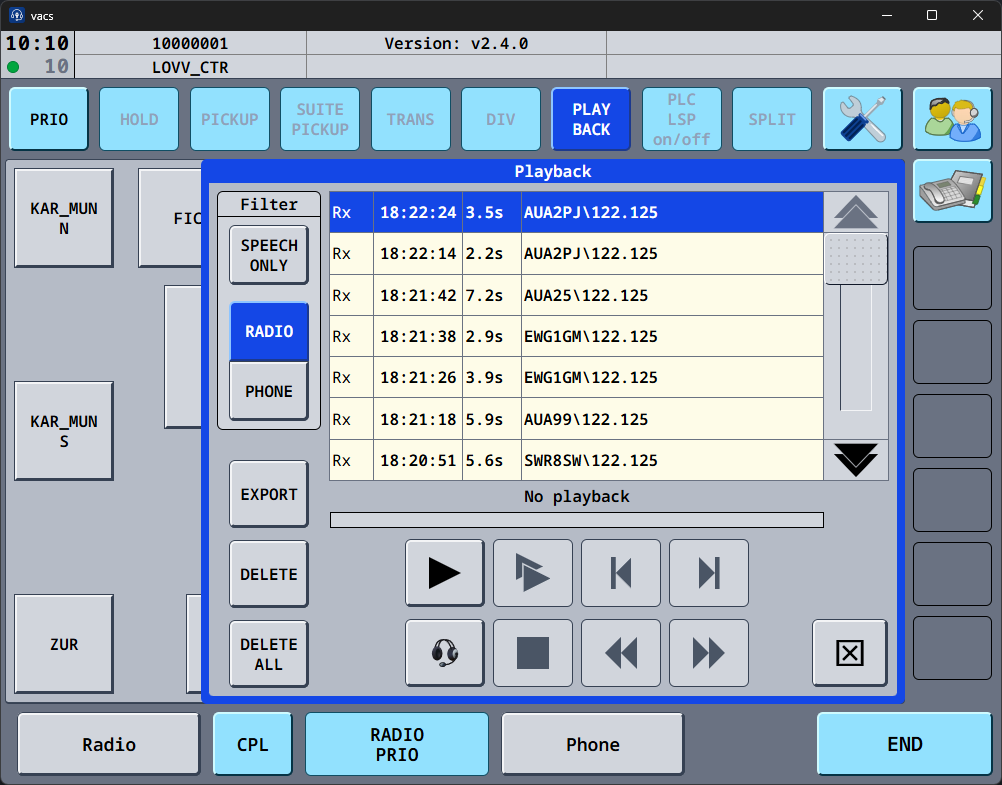
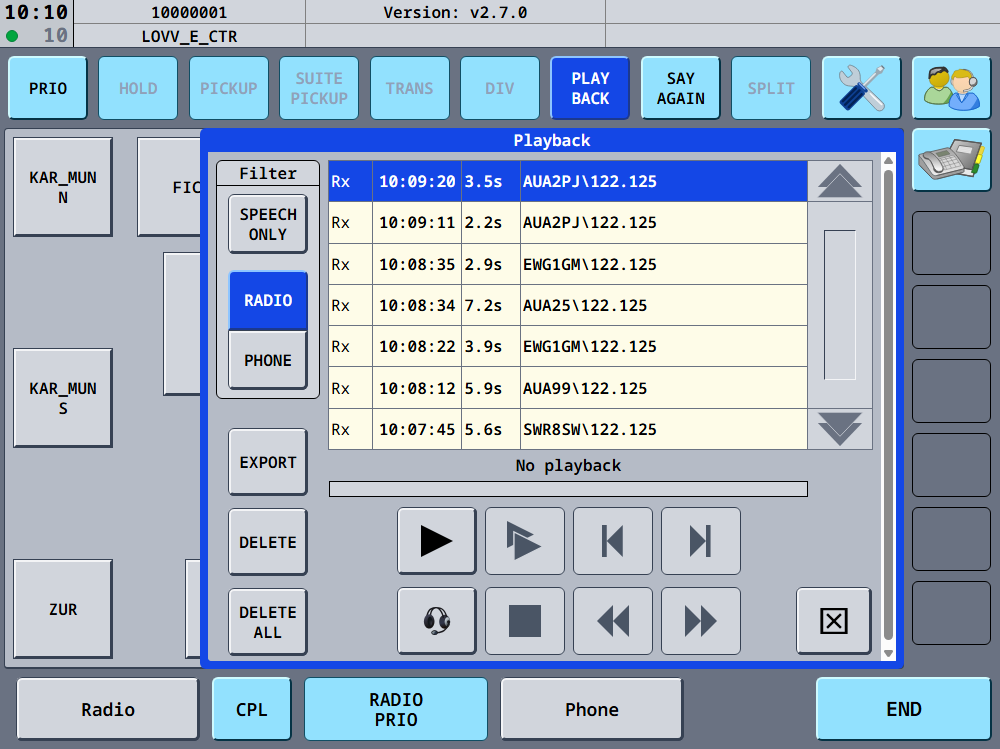
docs: add the SAY AGAIN key image and refresh the Playback page image

diff --git a/docs/interface/playback.md b/docs/interface/playback.md
@@ -86,7 +86,14 @@ style={{
 
 **SAY AGAIN** is a button in the upper function button row, to the right of **PLAY BACK**. It replays the most recent recorded transmission immediately, so you can hear a readback again without opening the Playback page.
 
-{/* TODO(screenshot): /img/playback/say-again-button.png - the upper function button row with the SAY AGAIN button visible, radio connected, button in its idle cyan state. */}
+<img
+src="/img/playback/say-again-button.png"
+alt="The upper function button row with the SAY AGAIN button"
+class="screenshot"
+style={{
+    width: "80%"
+  }}
+/>
 
 Press **SAY AGAIN** to replay the newest recording from the start. The button stays blue for as long as it owns the replay, including while the clip is paused from the Playback page, and pressing it again stops the replay. If nothing has been recorded yet, pressing the button does nothing. A transmission that is still in progress is not replayed; only the newest finished recording is.
 
